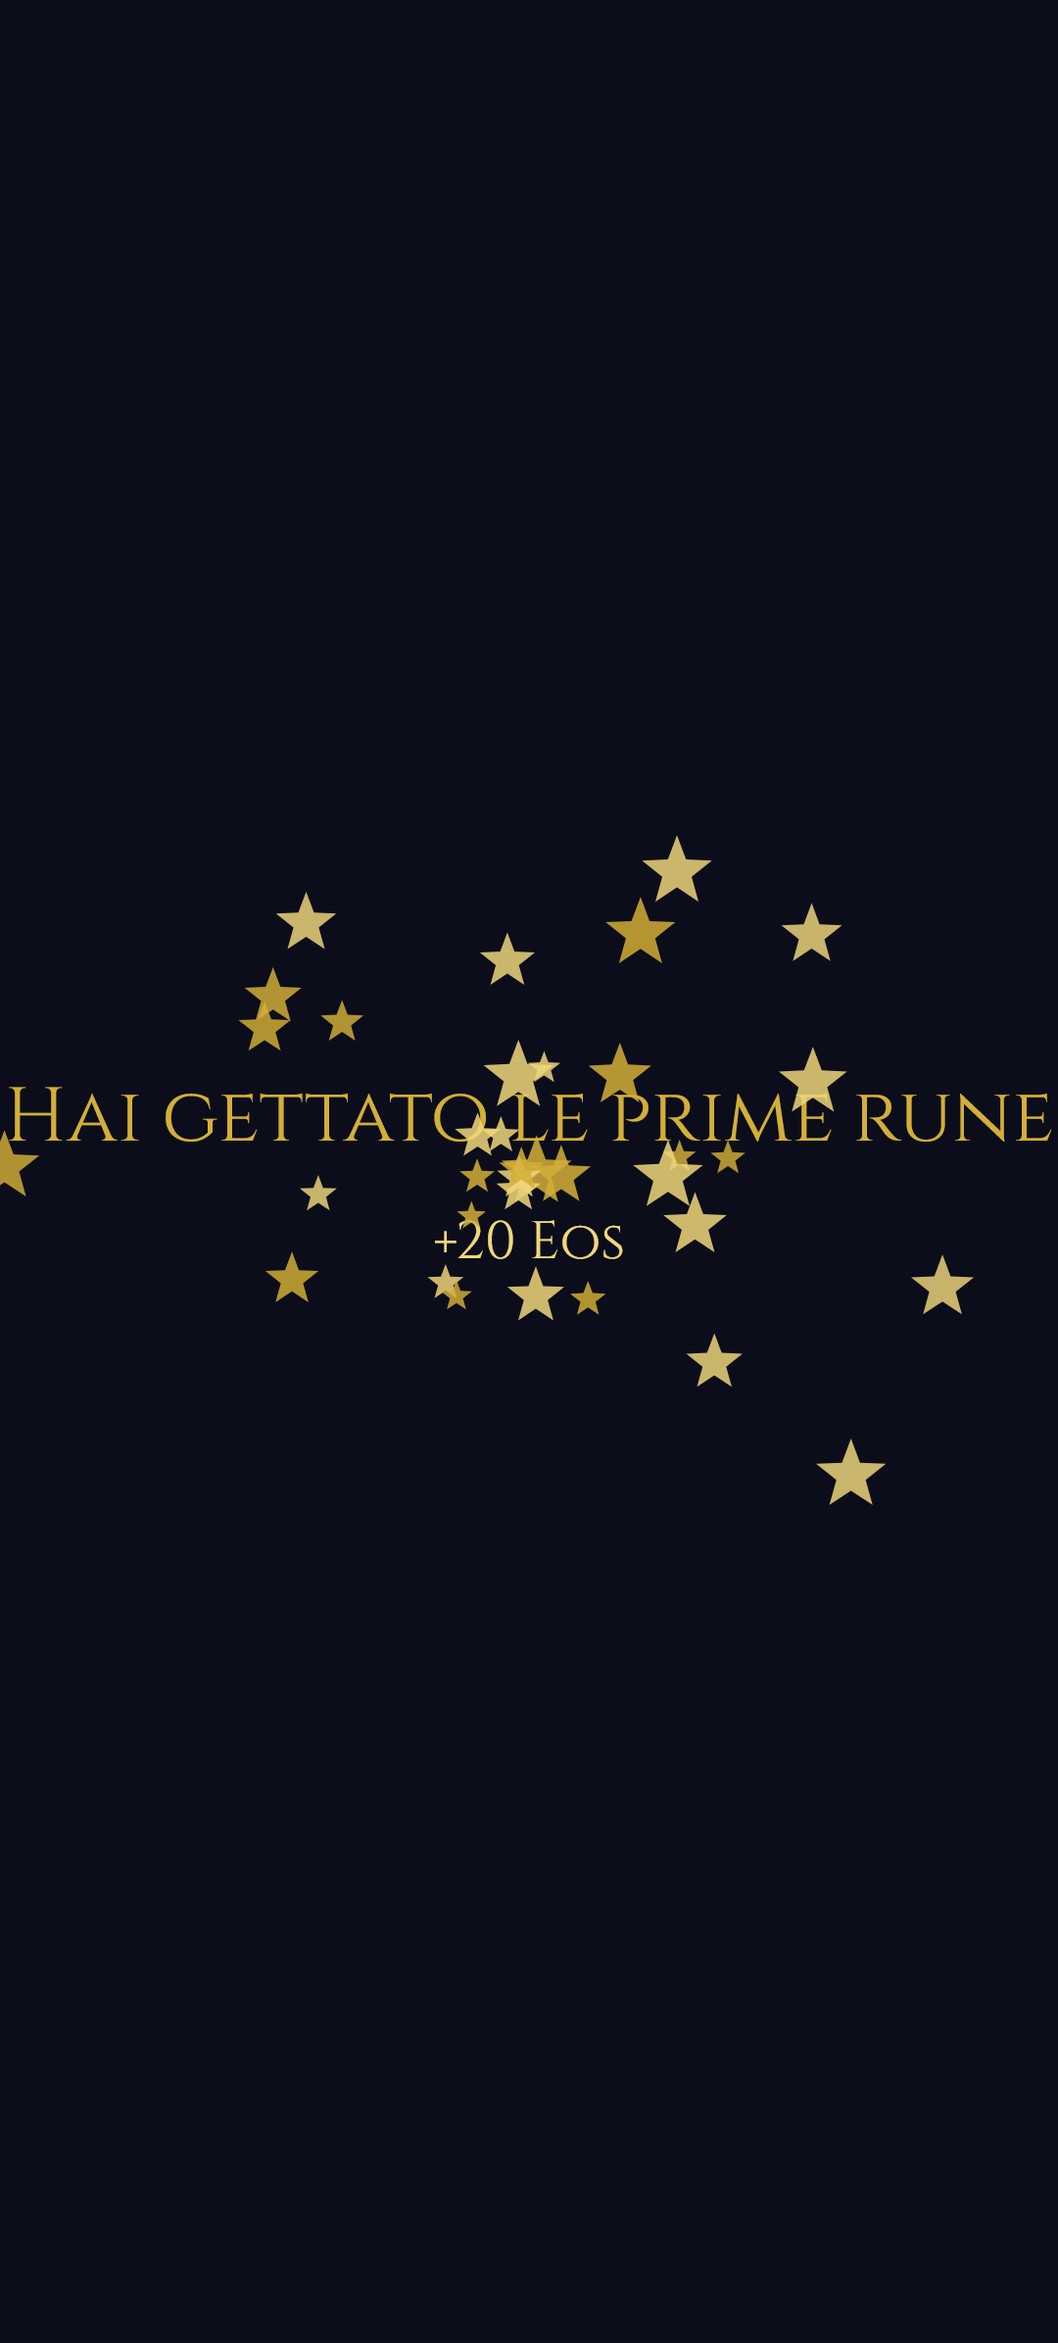
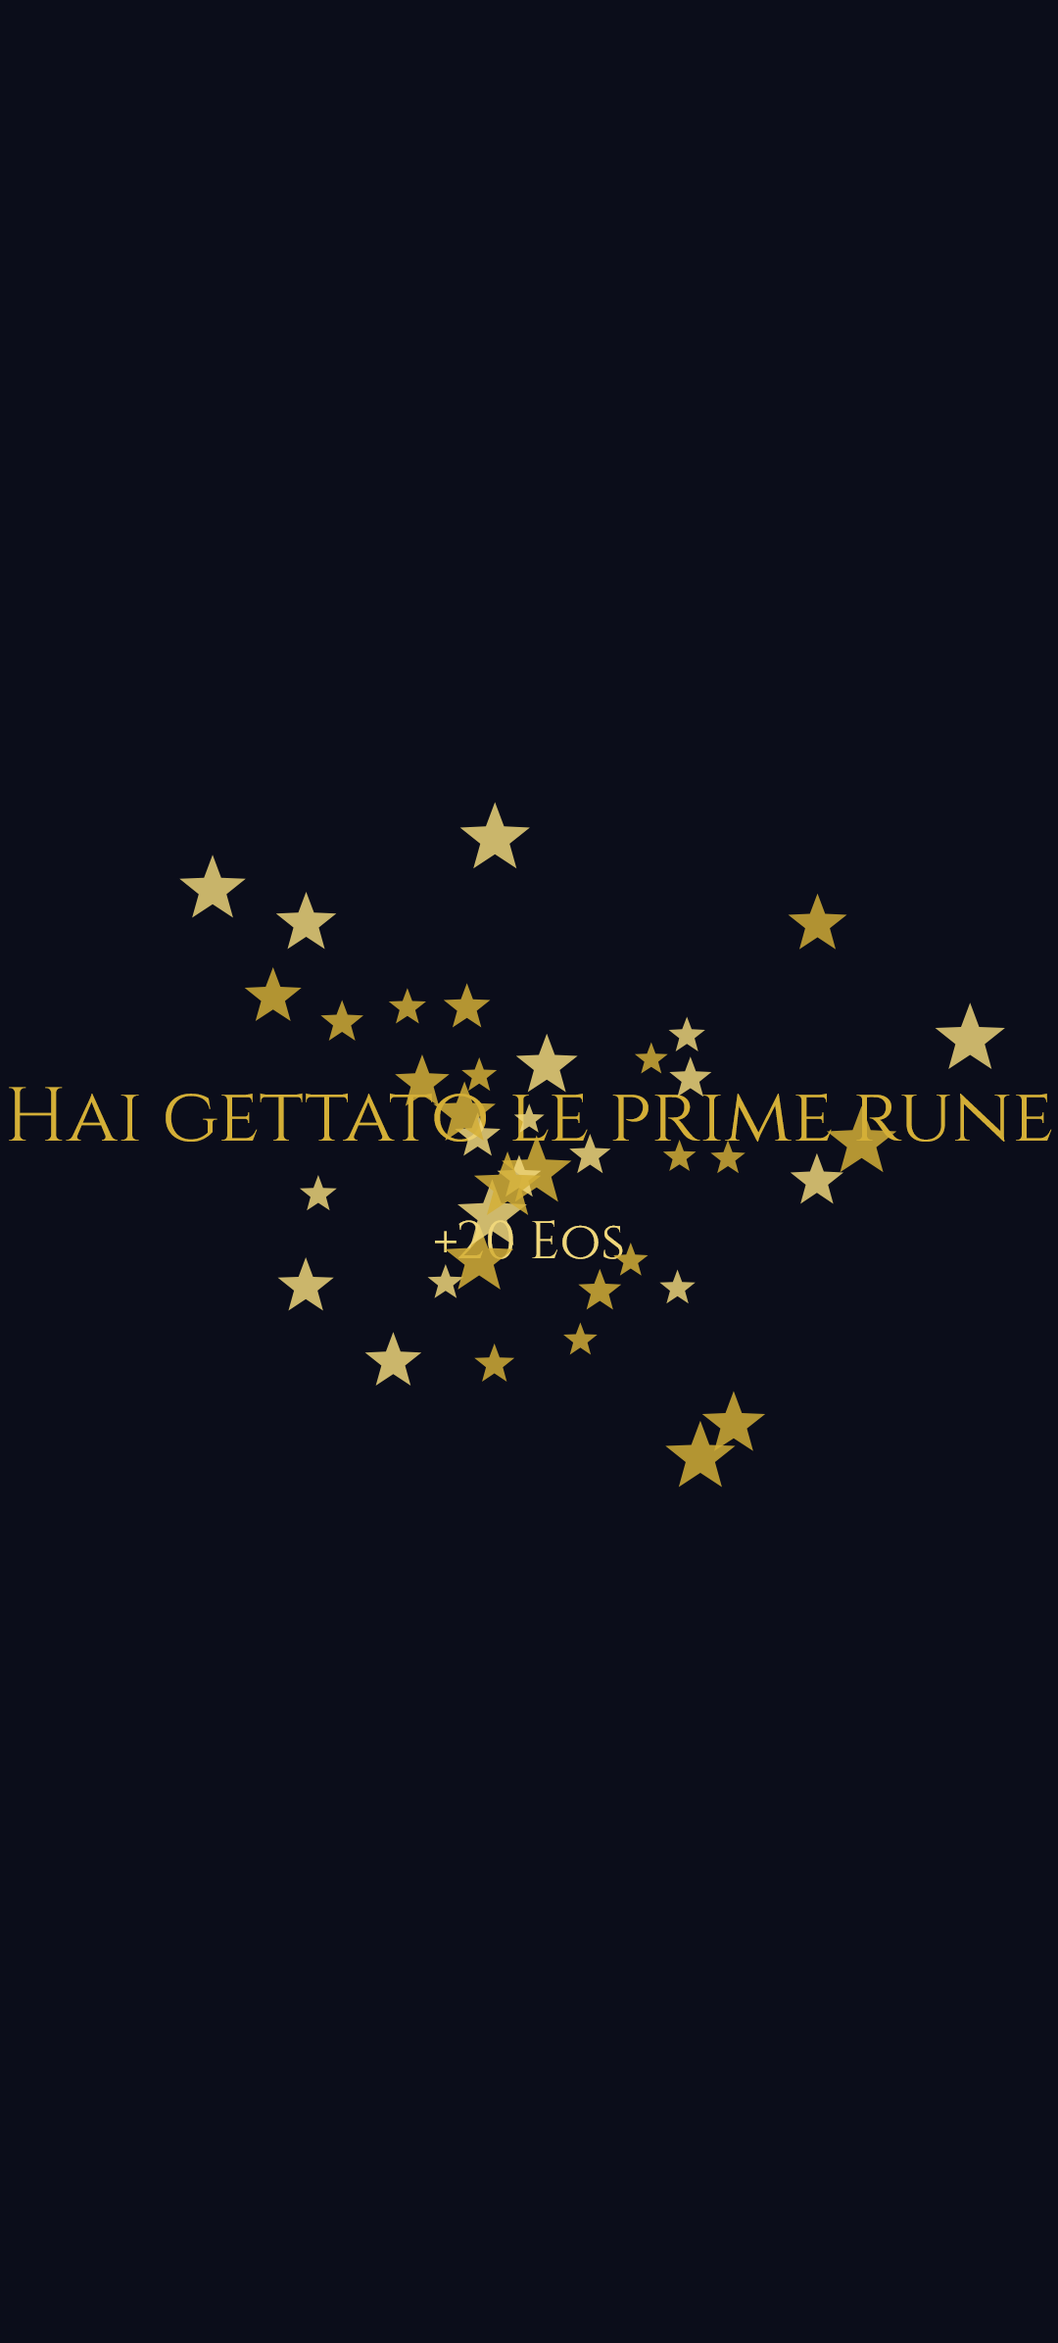
AC.01 fermata sulla misura, AC.03 chiusa: le particelle non saltano piu'
AC.01, L'INTERRUTTORE RESTA SPENTO E ADESSO SI SA PERCHE'. Il file diceva due
cose opposte e nessuna prova le sorvegliava. Misurato il disegno a
cinquantacinque accesi, dentro runAsync: costellazione 68,9 millesimi di secondo,
albero 106,4, loto 291,7, contro un tetto di 8,33 che e' mezzo fotogramma a
sessanta al secondo. Da otto a trentacinque volte oltre.

QUALE DELLE DUE DICHIARAZIONI VALE. Quella vecchia, sopra l'interruttore. Il
tracciato delle forme e' ancora fatto di migliaia di rettangoli, contati:
3.250 sulla costellazione, 5.038 sull'albero, 8.790 sul loto. Il commento dentro
il pittore non e' falso, parla di un'altra passata: l'ALONE e' davvero un
riquadro per elemento. Il costo sta sulla passata netta, non sull'alone.

LA GUARDIA SORVEGLIA LA DECISIONE, non si lamenta di un fatto. E' verde oggi,
perche' l'interruttore e' spento, e cade nel momento in cui qualcuno lo accende
senza che il disegno ci stia dentro. Una prova rossa in eterno avrebbe detto solo
cio' che il commento gia' dice. La soglia viene dal fotogramma e non dalla
misura: il pittore si ridisegna a ogni fotogramma perche' il respiro e'
un'animazione, e divide il fotogramma con tutto il resto della schermata.

AC.03, LE PARTICELLE NON SALTANO PIU'. I tre numeri di una particella si
estraggono adesso per TUTTE prima di qualunque filtro, quindi dipendono dal suo
indice e non dall'ordine in cui si e' arrivati a lei. Il seme complessivo resta
[…]

diff --git a/test/il_journal_arriva_in_fondo_test.dart b/test/il_journal_arriva_in_fondo_test.dart
@@ -1,0 +1,114 @@
+import 'dart:ui' as ui;
+
+import 'package:esoteric_circle/core/sigilli/sentieri.dart';
+import 'package:esoteric_circle/design_system/tokens/color_tokens.dart';
+import 'package:esoteric_circle/features/sigilli/journal_dall_arte.dart';
+import 'package:flutter/material.dart';
+import 'package:flutter_test/flutter_test.dart';
+
+/// IL JOURNAL DALL'ARTE ARRIVA IN FONDO A CINQUANTACINQUE ACCESI. Ordine AC
+/// voce 01.
+///
+/// **Perche' questa misura esiste.** Nel file del Journal convivevano due
+/// dichiarazioni opposte: il commento sopra l'interruttore diceva che a
+/// cinquantacinque accesi il disegno non arriva in fondo, perche' chiede un
+/// tracciato di qualche migliaio di rettangoli; il commento dentro il pittore
+/// diceva che le forme si uniscono in due tracciati e che restano al massimo
+/// cinquantacinque riquadri. **Una sola delle due puo' essere vera oggi**, e
+/// nessuna prova la sorvegliava: l'interruttore stava spento su una causa
+/// scritta a parole.
+///
+/// **La soglia si dichiara PRIMA di misurare, e viene dal fotogramma.** A
+/// sessanta fotogrammi al secondo un fotogramma dura 16,7 millesimi di secondo.
+/// Questo pittore si ridisegna a ogni fotogramma, perche' il respiro del
+/// bagliore e' un'animazione, e **divide il fotogramma con tutto il resto della
+/// schermata**: l'immagine dell'arte, l'elenco dei traguardi, la barra. Quindi
+/// puo' prendersi al massimo **meta' fotogramma, 8 millesimi**. Non e' il numero
+/// che ho misurato: e' il numero sotto il quale la schermata resta fluida.
+///
+/// **Cosa misura davvero, e cosa no.** Misura la composizione piu' la
+/// rasterizzazione su questa macchina dentro `flutter test`, che non e' un
+/// telefono: e' un indicatore, non la misura del dispositivo di Mauro. Vale come
+/// prova perche' il difetto che si teme e' di ordine di grandezza, non di
+/// decimi: la prima anteprima a cinquantacinque accesi girava dieci minuti e poi
+/// scadeva.
+void main() {
+  /// Meta' fotogramma a sessanta al secondo. Vedi sopra da dove viene.
+  const soglia = Duration(microseconds: 8333);
+
+  testWidgets('il disegno a cinquantacinque accesi sta dentro mezzo fotogramma',
+      (tester) async {
+    // **DENTRO runAsync**, perche' `toImage` la completa il motore sul tempo
+    // vero mentre dentro `testWidgets` il tempo e' finto: fuori di qui la
+    // promessa non viene mai osservata e la prova resta appesa fino al tetto.
+    await tester.runAsync(() async {
+      const larghezza = 360.0, altezza = 580.0;
+      var osservati = 0;
+      final lenti = <String>[];
+      for (final sentiero in Sentieri.tutti) {
+        final traguardi = Sentieri.di(sentiero).map((t) => t.id).toSet();
+        expect(traguardi, hasLength(55),
+            reason: 'questo sentiero non ha cinquantacinque traguardi, quindi '
+                'la misura non sarebbe quella dichiarata');
+        osservati++;
+        final pittore = PittoreDelleLuci(
+          sentiero: sentiero,
+          accesi: traguardi,
+          evidenziato: null,
+          oro: ColorTokens.gold,
+          oroTenue: ColorTokens.goldLight,
+          respiro: 1.0,
+          effettiPieni: true,
+        );
+        // Un giro a vuoto prima di cronometrare: il primo paga la preparazione
+        // del motore e non e' il costo di un fotogramma.
+        final scaldata = ui.PictureRecorder();
+        pittore.paint(Canvas(scaldata), const Size(larghezza, altezza));
+        await scaldata
+            .endRecording()
+            .toImage(larghezza.round(), altezza.round());
+
+        final cronometro = Stopwatch()..start();
+        final registratore = ui.PictureRecorder();
+        pittore.paint(Canvas(registratore), const Size(larghezza, altezza));
+        final composizione = cronometro.elapsedMicroseconds;
+        final immagine = await registratore
+            .endRecording()
+            .toImage(larghezza.round(), altezza.round());
+        cronometro.stop();
+        final totale = cronometro.elapsedMicroseconds;
+        // Che l'immagine sia davvero uscita, altrimenti si sta cronometrando il
+        // nulla: e' il modo piu' facile di misurare zero e chiamarlo veloce.
+        expect(immagine.width, larghezza.round());
+        // ignore: avoid_print
+        print('ORDINE AC VOCE 01: ${sentiero.name} a cinquantacinque accesi, '
+            'composizione ${(composizione / 1000).toStringAsFixed(2)} ms, '
+            'con la rasterizzazione ${(totale / 1000).toStringAsFixed(2)} ms');
+        if (totale > soglia.inMicroseconds) {
+          lenti.add('${sentiero.name}: ${(totale / 1000).toStringAsFixed(2)} ms '
+              'contro un tetto di ${(soglia.inMicroseconds / 1000)
+                  .toStringAsFixed(2)}');
+        }
+      }
+      // **QUANTI SENTIERI GUARDATI, e cade se sono zero.**
+      // ignore: avoid_print
+      print('ORDINE AC VOCE 01: sentieri osservati $osservati');
+      expect(osservati, Sentieri.tutti.length);
+      // **LA GUARDIA SORVEGLIA LA DECISIONE, non si lamenta di un fatto.**
+      // Oggi l'interruttore e' spento e questi numeri dicono perche': una prova
+      // rossa in eterno direbbe soltanto cio' che il commento gia' dice. Questa
+      // riga invece cade nel momento in cui qualcuno accende l'interruttore
+      // senza che il disegno ci stia dentro, che e' l'unico modo in cui il
+      // difetto potrebbe arrivare a una persona.
+      // ignore: avoid_print
+      print('ORDINE AC VOCE 01: interruttore ${ArteDelSentiero.acceso ? "acceso"
+          : "spento"}, sentieri fuori tetto ${lenti.length}');
+      expect(!ArteDelSentiero.acceso || lenti.isEmpty, isTrue,
+          reason: 'l\'interruttore del Journal dall\'arte e\' acceso ma il '
+              'disegno non sta dentro mezzo fotogramma: ${lenti.join(" | ")}. '
+              'Una schermata che si pianta col cammino finito e\' peggio di un '
+              'Journal procedurale che funziona: o si accelera il disegno, o '
+              'l\'interruttore torna spento. **La soglia non si alza.**');
+    });
+  });
+}

diff --git a/test/le_particelle_non_saltano_test.dart b/test/le_particelle_non_saltano_test.dart
@@ -1,0 +1,124 @@
+import 'package:esoteric_circle/core/maestro/maestro.dart';
+import 'package:esoteric_circle/design_system/tokens/color_tokens.dart';
+import 'package:esoteric_circle/features/sigilli/direzione_della_festa.dart';
+import 'package:esoteric_circle/features/sigilli/pittore_della_festa.dart';
+import 'package:flutter/material.dart';
+import 'package:flutter_test/flutter_test.dart';
+
+/// UNA PARTICELLA GIA' NATA NON SALTA. Ordine AC voce 03.
+///
+/// **Il difetto, trovato dentro l'ordine X e rimasto scoperto perche' nessun
+/// ordine lo copriva.** Le tre estrazioni di una particella si facevano dentro
+/// il ciclo e solo per quelle gia' nate: una non nata ne consumava una, una nata
+/// tre. Quindi **ogni nascita spostava il flusso di tutte quelle dopo di lei**, e
+/// le stelle gia' in volo si ritrovavano in un altro punto invece di proseguire.
+/// Per il primo quarantacinque per cento della festa il disegno si rimescolava a
+/// ogni fotogramma, ed e' la ragione per cui il movimento di Medora non si legge
+/// come un'esplosione.
+///
+/// **Si guardano le POSIZIONI e non i pixel**, perche' due stelle vicine sui
+/// pixel non si distinguono e un salto si confonderebbe con una sovrapposizione.
+/// Chi disegna e chi misura passano dalla stessa porta, `posizioni`, quindi non
+/// possono scostarsi.
+///
+/// **Vale per tutte e tre le feste**, perche' il pittore e' comune: una
+/// correzione che valesse per Medora e non per Aura sarebbe una correzione a
+/// meta' su un difetto che sta nel meccanismo.
+void main() {
+  /// **QUANTO PUO' SPOSTARSI IN UN PASSO, e da dove viene il numero.** Non dalla
+  /// misura: dal modello. In un passo di avanzamento pari a 0,01 il raggio di una
+  /// particella dal centro cresce al massimo di `passo * lato maggiore * 1,35`,
+  /// perche' il fattore del raggio sta fra 0,35 e 1,35; sulle altre due direzioni
+  /// la corsa e' al massimo `passo * 1,25` dell'altezza. Su una tela di 1080 per
+  /// 2391 il piu' grande dei due vale circa 32 punti. **Si ammette il doppio**,
+  /// 64, perche' fra un passo e l'altro cambia anche il fattore che schiaccia la
+  /// verticale e non si vuole una prova che cade sul terzo decimale. Un salto
+  /// vero, quello che questa riga deve prendere, misura centinaia di punti.
+  const salto = 64.0;
+
+  const misura = Size(1080, 2391);
+
+  /// Le tre coppie di istanti sono quelle dove il difetto viveva: prima che le
+  /// particelle siano tutte nate, cioe' sotto 0,45.
+  const coppie = [
+    [0.18, 0.19],
+    [0.30, 0.31],
+    [0.44, 0.45],
+  ];
+
+  PittoreDellaFesta pittore(Maestro maestro, double avanzamento) =>
+      PittoreDellaFesta(
+        maestro: maestro,
+        avanzamento: avanzamento,
+        oro: ColorTokens.gold,
+        oroTenue: ColorTokens.goldLight,
+        eGrande: false,
+        effettiPieni: true,
+      );
+
+  test('nessuna particella gia\' nata salta da un istante al successivo', () {
+    final saltate = <String>[];
+    var osservate = 0;
+    var confrontate = 0;
+    for (final maestro in Maestro.values) {
+      for (final coppia in coppie) {
+        osservate++;
+        final prima = pittore(maestro, coppia[0]).posizioni(misura);
+        final dopo = pittore(maestro, coppia[1]).posizioni(misura);
+        var quante = 0;
+        for (final voce in prima.entries) {
+          final arrivo = dopo[voce.key];
+          // Una particella che nel frattempo e' finita non si giudica: qui si
+          // guardano quelle che c'erano prima e ci sono ancora.
+          if (arrivo == null) continue;
+          confrontate++;
+          if ((arrivo - voce.value).distance > salto) quante++;
+        }
+        // ignore: avoid_print
+        print('ORDINE AC VOCE 03: ${maestro.id} '
+            '(${FesteDeiMaestri.di(maestro).direzione.name}) da ${coppia[0]} a '
+            '${coppia[1]}: vive ${prima.length}, saltate $quante');
+        if (quante > 0) {
+          saltate.add('${maestro.id} da ${coppia[0]} a ${coppia[1]}: $quante '
+              'particelle su ${prima.length}');
+        }
+      }
+    }
+    // **QUANTE OSSERVAZIONI, e cade se sono zero.**
+    // ignore: avoid_print
+    print('ORDINE AC VOCE 03: coppie osservate $osservate, particelle '
+        'confrontate $confrontate');
+    expect(osservate, Maestro.values.length * coppie.length);
+    expect(confrontate, greaterThan(0),
+        reason: 'nessuna particella e\' stata confrontata: la prova gira a '
+            'vuoto e direbbe che va tutto bene');
+    expect(saltate, isEmpty,
+        reason: 'delle particelle gia' ' nate si spostano di piu\' di $salto '
+            'punti in un passo di un centesimo: ${saltate.join(" | ")}. Vuol '
+            'dire che i numeri di una particella dipendono ancora dall\'ordine '
+            'in cui si e\' arrivati a lei, quindi ogni nascita rimescola tutte '
+            'quelle dopo');
+  });
+
+  test('la festa resta la stessa a ogni ridisegno', () {
+    // **Il seme e' fisso, e questa riga lo pretende.** La correzione tocca
+    // QUANDO si estrae, non da dove: se un giorno qualcuno legasse i numeri
+    // all'istante invece che all'indice, la festa cambierebbe a ogni montaggio e
+    // non sarebbe piu' la TUA festa.
+    var osservate = 0;
+    for (final maestro in Maestro.values) {
+      osservate++;
+      final una = pittore(maestro, 0.5).posizioni(misura);
+      final altra = pittore(maestro, 0.5).posizioni(misura);
+      expect(una.length, altra.length);
+      for (final chiave in una.keys) {
+        expect(altra[chiave], una[chiave],
+            reason: 'la particella $chiave di ${maestro.id} cade in due punti '
+                'diversi a parita\' di avanzamento');
+      }
+    }
+    // ignore: avoid_print
+    print('ORDINE AC VOCE 03: feste confrontate con se stesse $osservate');
+    expect(osservate, Maestro.values.length);
+  });
+}

diff --git a/lib/features/sigilli/pittore_della_festa.dart b/lib/features/sigilli/pittore_della_festa.dart
@@ -54,28 +54,81 @@ class PittoreDellaFesta extends CustomPainter {
   /// significato che nessuno le ha dato.
   static const double quotaMassimaDellaRuna = 1 / 12;
 
+  /// **I NUMERI DI UNA PARTICELLA DIPENDONO DAL SUO INDICE, non dall'ordine in
+  /// cui si e' arrivati a lei.** Ordine AC voce 03.
+  ///
+  /// **Il difetto che questa riga chiude.** Prima le tre estrazioni si facevano
+  /// dentro il ciclo e solo per le particelle gia' nate: una non nata ne
+  /// consumava una, una nata tre. Cosi' **ogni nascita spostava il flusso di
+  /// tutte quelle dopo di lei**, e le stelle gia' in volo saltavano in un altro
+  /// punto invece di proseguire. Misurato prima della correzione: fra 0,18 e
+  /// 0,19 cambiavano angolo quattordici stelle su trentacinque, fra 0,30 e 0,31
+  /// trentatre su cinquantuno, e solo da 0,45 in poi, quando sono tutte nate, il
+  /// disegno si stabilizzava. **Per il primo quarantacinque per cento della
+  /// festa le particelle saltavano invece di aprirsi.**
+  ///
+  /// Adesso si estrae per TUTTE prima di qualunque filtro, quindi la particella
+  /// numero venti prende sempre gli stessi tre numeri, che sia nata o no. Il seme
+  /// complessivo resta fisso, quindi la stessa festa continua a ridisegnarsi
+  /// identica.
+  static List<({double ritardo, double quanto, double laterale})> numeriDelle(
+    Maestro maestro,
+    int quante, {
+    required bool eGrande,
+  }) {
+    final caso = math.Random(maestro.index * 7919 + (eGrande ? 31 : 17));
+    return List.generate(
+      quante,
+      (_) => (
+        // Ogni particella parte con un suo ritardo, cosi' il fronte non e' una
+        // riga netta: una festa che arriva tutta insieme e' un lampo, non un
+        // movimento.
+        ritardo: caso.nextDouble() * 0.45,
+        quanto: caso.nextDouble(),
+        laterale: caso.nextDouble(),
+      ),
+    );
+  }
+
+  /// Quante particelle disegna questa festa, degrado compreso.
+  int get quanteParticelle => effettiPieni
+      ? _quante
+      : math.max(6, (_quante * quotaDelDegrado).round());
+
+  /// **DOVE STA UNA PARTICELLA, come dato e non come effetto del disegno.**
+  ///
+  /// Serve alla prova che sorveglia il salto: senza, l'unico modo di sapere dove
+  /// sta una stella sarebbe guardare i pixel, e due stelle vicine non si
+  /// distinguerebbero. Chi disegna e chi misura passano di qui tutti e due,
+  /// quindi non possono scostarsi.
+  Map<int, Offset> posizioni(Size misura) {
+    final quante = quanteParticelle;
+    final numeri = numeriDelle(maestro, quante, eGrande: eGrande);
+    final dove = <int, Offset>{};
+    for (var i = 0; i < quante; i++) {
+      final t = ((avanzamento - numeri[i].ritardo) / (1 - numeri[i].ritardo))
+          .clamp(0.0, 1.0);
+      if (t <= 0) continue;
+      dove[i] = _dove(misura, numeri[i].quanto, numeri[i].laterale, t, i);
+    }
+    return dove;
+  }
+
   @override
   void paint(Canvas tela, Size misura) {
-    final quante = effettiPieni
-        ? _quante
-        : math.max(6, (_quante * quotaDelDegrado).round());
-    final caso = math.Random(maestro.index * 7919 + (eGrande ? 31 : 17));
+    final quante = quanteParticelle;
+    final numeri = numeriDelle(maestro, quante, eGrande: eGrande);
     for (var i = 0; i < quante; i++) {
-      // Ogni particella parte con un suo ritardo, cosi' il fronte non e' una
-      // riga netta: una festa che arriva tutta insieme e' un lampo, non un
-      // movimento.
-      final ritardo = caso.nextDouble() * 0.45;
-      final t = ((avanzamento - ritardo) / (1 - ritardo)).clamp(0.0, 1.0);
+      final t = ((avanzamento - numeri[i].ritardo) / (1 - numeri[i].ritardo))
+          .clamp(0.0, 1.0);
       if (t <= 0) continue;
-      _particella(tela, misura, caso, t, i);
+      _particella(tela, misura, numeri[i].quanto, numeri[i].laterale, t, i);
     }
   }
 
-  void _particella(
-      Canvas tela, Size misura, math.Random caso, double t, int indice) {
+  Offset _dove(
+      Size misura, double quanto, double laterale, double t, int indice) {
     final larghezza = misura.width, altezza = misura.height;
-    final quanto = caso.nextDouble();
-    final laterale = caso.nextDouble();
     late Offset dove;
     switch (_festa.direzione) {
       case DirezioneDellaFesta.dalCentro:
@@ -97,6 +150,13 @@ class PittoreDellaFesta extends CustomPainter {
         dove = Offset(quanto * larghezza + onda,
             altezza * 1.05 - t * 1.2 * altezza);
     }
+    return dove;
+  }
+
+  void _particella(Canvas tela, Size misura, double quanto, double laterale,
+      double t, int indice) {
+    final larghezza = misura.width, altezza = misura.height;
+    final dove = _dove(misura, quanto, laterale, t, indice);
     // Le particelle si spengono verso la fine della loro corsa.
     final vigore = (1 - t * t) * (effettiPieni ? 1.0 : 0.75);
     final grandezza = (eGrande ? 1.35 : 1.0) * (5 + laterale * 9);

diff --git a/docs/ordini/ORDINE_AC_MANIFESTO.md b/docs/ordini/ORDINE_AC_MANIFESTO.md
@@ -54,9 +54,9 @@ gruppo che le usa, e il loro esito si scrive qui allora.
 
 ## Le dodici voci
 
-- **AC.01** L'interruttore dei Journal dall'arte si accende — APERTA
+- **AC.01** L'interruttore dei Journal dall'arte si accende — FERMATA IN ATTESA DI DECISIONE
 - **AC.02** Il vuoto sotto l'arte sparisce — APERTA
-- **AC.03** Le particelle della festa smettono di saltare — APERTA
+- **AC.03** Le particelle della festa smettono di saltare — CHIUSA
 - **AC.04** Mai due celebrazioni di seguito — APERTA
 - **AC.05** Nessun traguardo celebra due volte — APERTA
 - **AC.06** Tre pezzi dell'identita' diventano gesti — APERTA
@@ -70,7 +70,7 @@ gruppo che le usa, e il loro esito si scrive qui allora.
 ## I marcatori, contati sulle righe
 
 VOCI_TOTALI: 12
-VOCI_APERTE: 12
-VOCI_CHIUSE: 0
+VOCI_APERTE: 10
+VOCI_CHIUSE: 1
 VOCI_FERMATE_SU_PREMESSA_FALSA: 0
-VOCI_FERMATE_IN_ATTESA_DI_DECISIONE: 0
+VOCI_FERMATE_IN_ATTESA_DI_DECISIONE: 1
